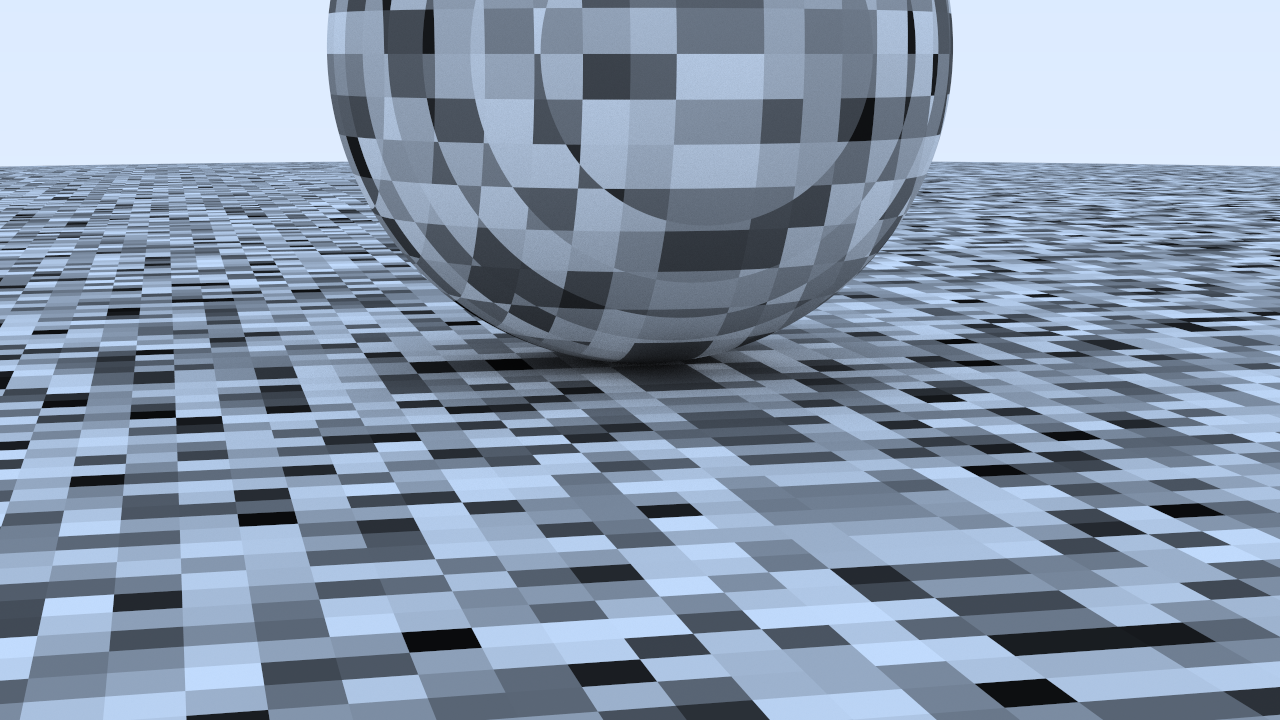
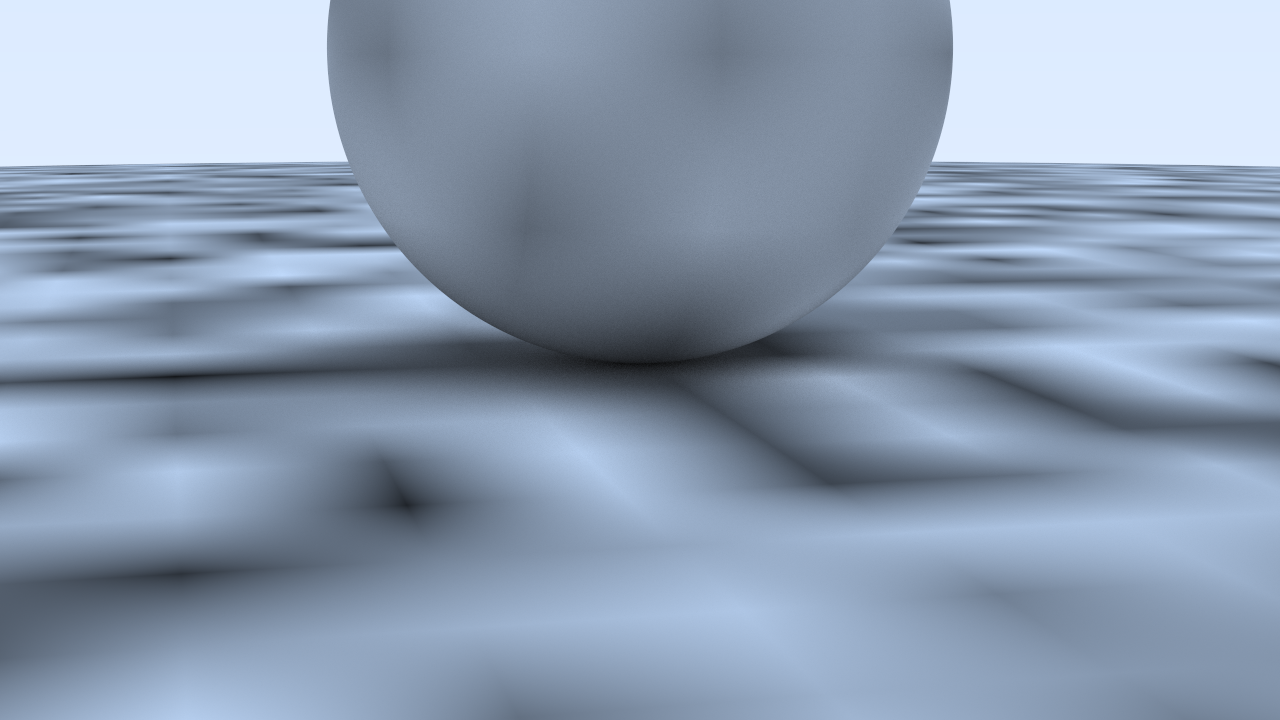
feat: smooth perlin noise texture with trilinear interpolation

diff --git a/src/common/perlin.h b/src/common/perlin.h
@@ -15,10 +15,25 @@ struct Perlin {
     }
 
     double noise(const Vec3d& p) const {
-        const int i = int(4 * p.x()) & 255;
-        const int j = int(4 * p.y()) & 255;
-        const int k = int(4 * p.z()) & 255;
-        return m_rand_float[m_perm_x[i] ^ m_perm_y[j] ^ m_perm_z[k]];
+        const double u = p.x() - std::floor(p.x());
+        const double v = p.y() - std::floor(p.y());
+        const double w = p.z() - std::floor(p.z());
+
+        const int i = int(std::floor(p.x()));
+        const int j = int(std::floor(p.y()));
+        const int k = int(std::floor(p.z()));
+
+        double c[2][2][2];
+        for (int di = 0; di < 2; ++di) {
+            for (int dj = 0; dj < 2; ++dj) {
+                for (int dk = 0; dk < 2; ++dk) {
+                    c[di][dj][dk] = m_rand_float[m_perm_x[(i + di) & 255] ^ m_perm_y[(j + dj) & 255]
+                                                 ^ m_perm_z[(k + dk) & 255]];
+                }
+            }
+        }
+
+        return trilinear_interp(c, u, v, w);
     }
 
 private:
@@ -35,5 +50,19 @@ private:
             const int target_idx = random_int(0, i);
             std::swap(p[i], p[target_idx]);
         }
+    }
+
+    static double trilinear_interp(const double c[2][2][2], const double u, const double v,
+        const double w) {
+        double accum = 0.0;
+        for (int i = 0; i < 2; ++i) {
+            for (int j = 0; j < 2; ++j) {
+                for (int k = 0; k < 2; ++k) {
+                    accum += (i * u + (1 - i) * (1.0 - u)) * (j * v + (1 - j) * (1.0 - v))
+                             * (k * w + (1 - k) * (1.0 - w)) * c[i][j][k];
+                }
+            }
+        }
+        return accum;
     }
 };
